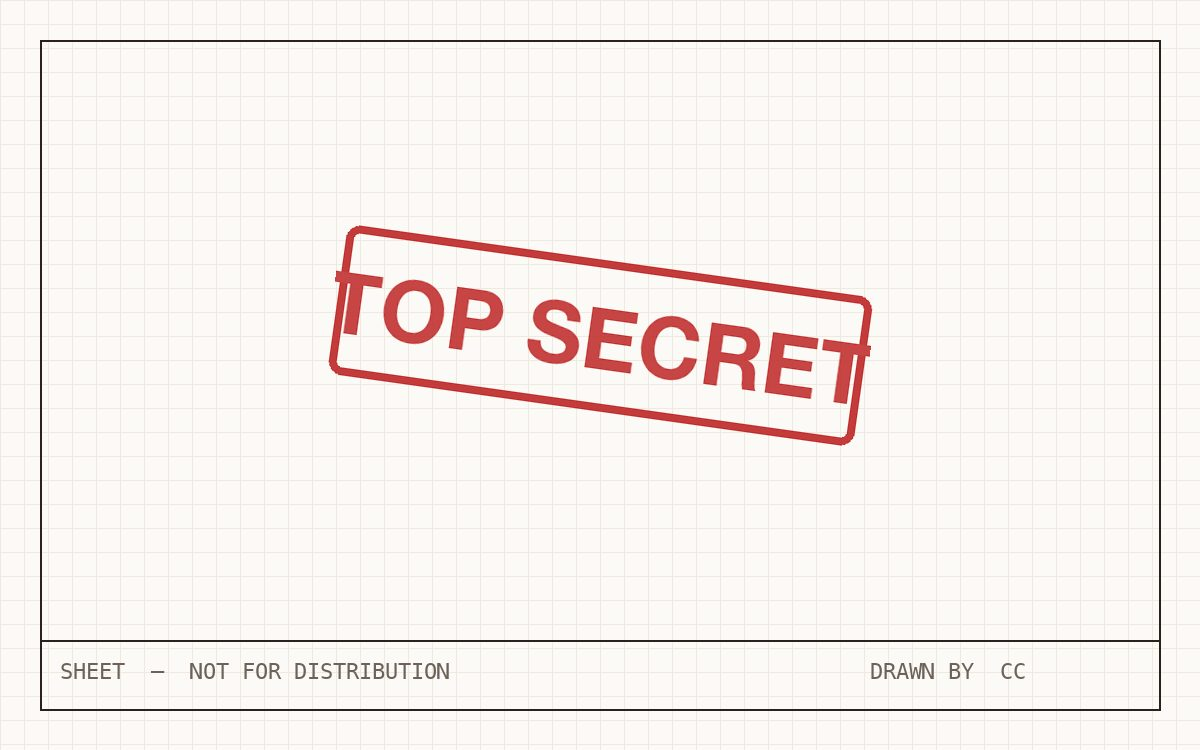
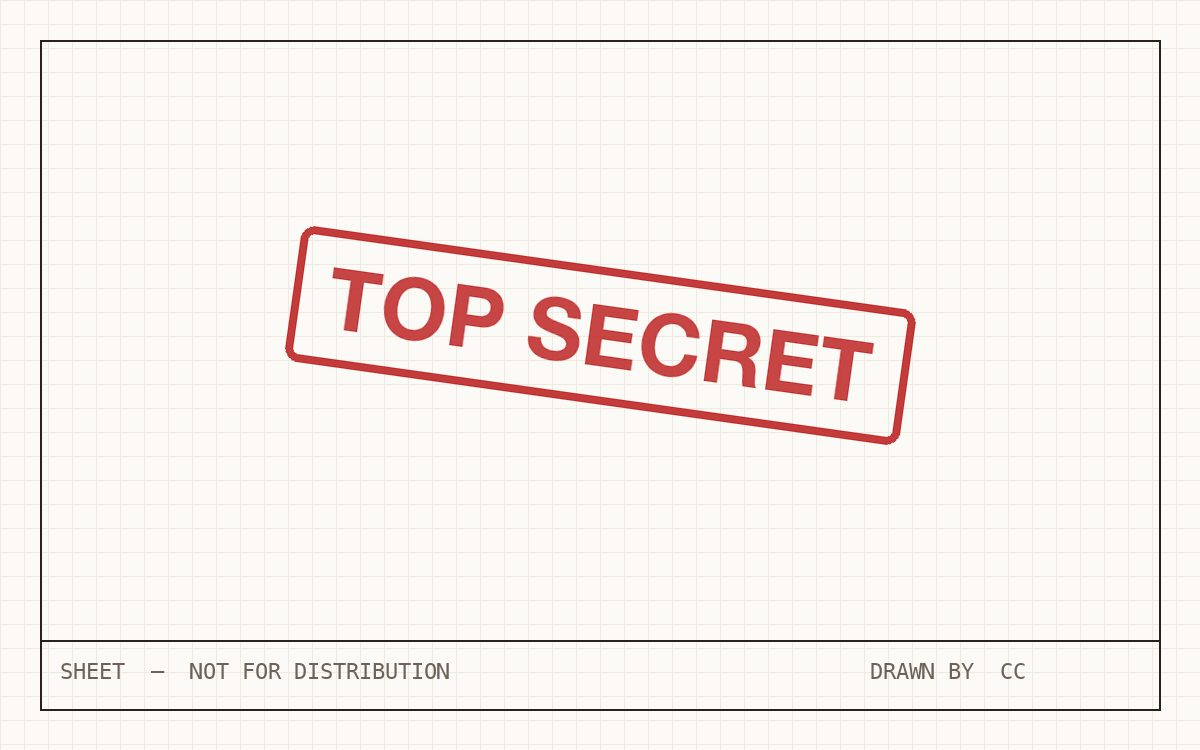
Stamp fits; tagline only on the home page

Changed region(s): [[0.2158, 0.276, 0.7708, 0.6133]]

diff --git a/interiors/index.html b/interiors/index.html
@@ -132,7 +132,7 @@ a:focus-visible,[tabindex]:focus-visible{outline:2px solid #3253c4;outline-offse
 .ptitle h1{font-size:42px}.pano{margin:30px -12px 0}.facts,.intro,.step,.quotes,.cgrid,.cv{grid-template-columns:1fr;gap:24px}.step.flip{grid-template-columns:1fr}.step.flip>.pics{order:0}.step{margin-top:60px}footer h2{font-size:34px}footer .row{flex-wrap:wrap}main svg,footer svg{max-width:100%}.sec{height:auto}.mail{font-size:18px!important;word-break:break-all}}
 h1,h2,h3,.sub,.note,.cap,figcaption,.hc,.label,.chip{text-wrap:balance} p,li{text-wrap:pretty}</style></head><body>
 <div class="wrap">
-<header class="top"><a class="name" href="../"><b>Cameron Creath Design</b><span class="hc">Show Set&nbsp;· Interiors&nbsp;· Attractions</span></a>
+<header class="top"><a class="name" href="../"><b>Cameron Creath Design</b></a>   <!-- practice areas only on the home page: the tabs say it everywhere else -->
 <nav class="tabs"><a class="tab" style="background-color:#76c3f1" href="../entertainment/">Entertainment</a><a class="tab on" href="../interiors/">Interiors</a><a class="tab" style="background-color:#fae87a" href="../personal/">Personal Projects</a><a class="tab" style="background-color:#c6dffd" href="../about/">About me</a></nav></header>
 
 <main class="sheet"><section class="ptitle"><span class="chip" style="border-left:4px solid #f1a13e">Interiors</span><h1>Interiors</h1><p class="sub">Hospitality interiors at Gensler and EDG · a classroom program I started at Gensler.</p></section><div class="cgrid"><a class="card" href="superdome/"><div class="mount"><img src="../images/superdome-built.jpg" alt="" loading="lazy"></div><span class="chip" style="border-left:4px solid #f1a13e">Gensler</span><h3>Superdome Clubs + Grab & Go Markets</h3><p>Premium club spaces and grab-and-go markets for the Caesars Superdome. I was a junior designer on the project.</p><span class="meta">Hospitality interiors</span><span class="more hc">Read the project →</span></a><a class="card" href="mgm/"><div class="mount"><img src="../images/mgm-suite.jpg" alt="" loading="lazy"></div><span class="chip" style="border-left:4px solid #f1a13e">Gensler</span><h3>MGM Grand Guestrooms</h3><p>Guestroom and suite refresh, from finishes to custom furniture.</p><span class="meta">Hospitality interiors</span><span class="more hc">Read the project →</span></a><a class="card" href="edg-furniture/"><div class="mount"><img src="../images/edg-aviator-photo.jpg" alt="" loading="lazy"></div><span class="chip" style="border-left:4px solid #f1a13e">EDG</span><h3>Hotel Furniture at EDG</h3><p>Design intern. 3D models and design drawings for hotel FF&E, plus building templates and SOPs.</p><span class="meta">Interior design · Hotel FF&E</span><span class="more hc">Read the project →</span></a><a class="card" href="eduscape/"><div class="mount"><img src="../images/eduscape-moon.jpg" alt="" loading="lazy"></div><span class="chip" style="border-left:4px solid #f1a13e">Gensler · founder</span><h3>Eduscape</h3><p>Reusable classroom worlds for kindergartens in downtown LA. I pitched it and led 70+ volunteers through three installs.</p><span class="meta">Classroom interiors · volunteer program · 2022–2023</span><span class="more hc">Read the project →</span></a></div></main></div>

diff --git a/entertainment/index.html b/entertainment/index.html
@@ -132,7 +132,7 @@ a:focus-visible,[tabindex]:focus-visible{outline:2px solid #3253c4;outline-offse
 .ptitle h1{font-size:42px}.pano{margin:30px -12px 0}.facts,.intro,.step,.quotes,.cgrid,.cv{grid-template-columns:1fr;gap:24px}.step.flip{grid-template-columns:1fr}.step.flip>.pics{order:0}.step{margin-top:60px}footer h2{font-size:34px}footer .row{flex-wrap:wrap}main svg,footer svg{max-width:100%}.sec{height:auto}.mail{font-size:18px!important;word-break:break-all}}
 h1,h2,h3,.sub,.note,.cap,figcaption,.hc,.label,.chip{text-wrap:balance} p,li{text-wrap:pretty}</style></head><body>
 <div class="wrap">
-<header class="top"><a class="name" href="../"><b>Cameron Creath Design</b><span class="hc">Show Set&nbsp;· Interiors&nbsp;· Attractions</span></a>
+<header class="top"><a class="name" href="../"><b>Cameron Creath Design</b></a>   <!-- practice areas only on the home page: the tabs say it everywhere else -->
 <nav class="tabs"><a class="tab on" href="../entertainment/">Entertainment</a><a class="tab" style="background-color:#f1a13e" href="../interiors/">Interiors</a><a class="tab" style="background-color:#fae87a" href="../personal/">Personal Projects</a><a class="tab" style="background-color:#c6dffd" href="../about/">About me</a></nav></header>
 
 <main class="sheet"><section class="ptitle"><span class="chip" style="border-left:4px solid #3253c4">Entertainment</span><h1>Entertainment</h1><p class="sub">Rides, themed areas and show sets.</p></section><div class="cgrid"><a class="card" href="oobleck/"><div class="mount"><img src="../images/oobleck-aerial.jpg" alt="" loading="lazy"></div><span class="chip" style="border-left:4px solid #3253c4">Personal · Fall 2025</span><h3>The Oobleck Coaster</h3><p>A story-driven family roller coaster, combining area development and track layout.</p><span class="meta">Attractions</span><span class="more hc">Read the project →</span></a><a class="card" href="heartline/"><div class="mount"><img src="../images/heartline-app.jpg" alt="" loading="lazy"></div><span class="chip" style="border-left:4px solid #3253c4">Personal · in progress</span><h3>HEARTLINE</h3><p>A coaster design tool that starts from the rider. Draw where the car flies and the track is built around it.</p><span class="meta">Software · AI · engineering</span><span class="more hc">Read the project →</span></a><a class="card" href="village-gate/"><div class="mount"><img src="../images/dnd-night.jpg" alt="" loading="lazy"></div><span class="chip" style="border-left:4px solid #3253c4">Personal · collaboration</span><h3>The Wizard’s Gate</h3><p>A concept-art-to-3D-model project: faithfully modeling the structure from a drawing by Andrew Carey, Concept Artist.</p><span class="meta">Themed gate</span><span class="more hc">Read the project →</span></a><a class="card" href="top-secret/"><div class="mount"><img src="../images/top-secret.jpg" alt="" loading="lazy"></div><span class="chip" style="border-left:4px solid #3253c4">Herschend · Mycotoo · Basemint · ASDI</span><h3>Top Secret</h3><p>Rides, rockwork and an art direction package I can describe but not show.</p><span class="meta">Under NDA</span><span class="more hc">Read the project →</span></a></div></main></div>

diff --git a/personal/index.html b/personal/index.html
@@ -132,7 +132,7 @@ a:focus-visible,[tabindex]:focus-visible{outline:2px solid #3253c4;outline-offse
 .ptitle h1{font-size:42px}.pano{margin:30px -12px 0}.facts,.intro,.step,.quotes,.cgrid,.cv{grid-template-columns:1fr;gap:24px}.step.flip{grid-template-columns:1fr}.step.flip>.pics{order:0}.step{margin-top:60px}footer h2{font-size:34px}footer .row{flex-wrap:wrap}main svg,footer svg{max-width:100%}.sec{height:auto}.mail{font-size:18px!important;word-break:break-all}}
 h1,h2,h3,.sub,.note,.cap,figcaption,.hc,.label,.chip{text-wrap:balance} p,li{text-wrap:pretty}</style></head><body>
 <div class="wrap">
-<header class="top"><a class="name" href="../"><b>Cameron Creath Design</b><span class="hc">Show Set&nbsp;· Interiors&nbsp;· Attractions</span></a>
+<header class="top"><a class="name" href="../"><b>Cameron Creath Design</b></a>   <!-- practice areas only on the home page: the tabs say it everywhere else -->
 <nav class="tabs"><a class="tab" style="background-color:#76c3f1" href="../entertainment/">Entertainment</a><a class="tab" style="background-color:#f1a13e" href="../interiors/">Interiors</a><a class="tab on" href="../personal/">Personal Projects</a><a class="tab" style="background-color:#c6dffd" href="../about/">About me</a></nav></header>
 
 <main class="sheet"><section class="ptitle"><span class="chip" style="border-left:4px solid #fae87a">Personal projects</span><h1>Personal Projects</h1><p class="sub">Things I make on my own time.</p></section><div class="cgrid"><a class="card" href="treehouse/"><div class="mount"><img src="../images/treehouse-01.jpg" alt="" loading="lazy"></div><span class="chip" style="border-left:4px solid #fae87a">Personal</span><h3>Gaudí Getaway</h3><p>A surrealist treehouse concept.</p><span class="meta">Organic architecture</span><span class="more hc">Read the project →</span></a><a class="card" href="pillow-fort/"><div class="mount"><img src="../images/pillowfort-3720.jpg" alt="" loading="lazy"></div><span class="chip" style="border-left:4px solid #fae87a">Personal · June 2026</span><h3>The Celestial Pillow Fort</h3><p>An immersive 950 sq ft pillow fort.</p><span class="meta">Themed environment</span><span class="more hc">Read the project →</span></a><a class="card" href="paper-cards/"><div class="mount"><img src="../images/paper-craft-cards-3772.jpg" alt="" loading="lazy"></div><span class="chip" style="border-left:4px solid #fae87a">Personal · ongoing</span><h3>Paper Cards</h3><p>Layered cards for friends and family. Lettered in Illustrator, cut on a Cricut, glued by hand.</p><span class="meta">Paper craft</span><span class="more hc">Read the project →</span></a></div></main></div>

diff --git a/404.html b/404.html
@@ -132,7 +132,7 @@ a:focus-visible,[tabindex]:focus-visible{outline:2px solid #3253c4;outline-offse
 .ptitle h1{font-size:42px}.pano{margin:30px -12px 0}.facts,.intro,.step,.quotes,.cgrid,.cv{grid-template-columns:1fr;gap:24px}.step.flip{grid-template-columns:1fr}.step.flip>.pics{order:0}.step{margin-top:60px}footer h2{font-size:34px}footer .row{flex-wrap:wrap}main svg,footer svg{max-width:100%}.sec{height:auto}.mail{font-size:18px!important;word-break:break-all}}
 h1,h2,h3,.sub,.note,.cap,figcaption,.hc,.label,.chip{text-wrap:balance} p,li{text-wrap:pretty}</style></head><body>
 <div class="wrap">
-<header class="top"><a class="name" href=""><b>Cameron Creath Design</b><span class="hc">Show Set&nbsp;· Interiors&nbsp;· Attractions</span></a>
+<header class="top"><a class="name" href=""><b>Cameron Creath Design</b></a>   <!-- practice areas only on the home page: the tabs say it everywhere else -->
 <nav class="tabs"><a class="tab" style="background-color:#76c3f1" href="entertainment/">Entertainment</a><a class="tab" style="background-color:#f1a13e" href="interiors/">Interiors</a><a class="tab" style="background-color:#fae87a" href="personal/">Personal Projects</a><a class="tab" style="background-color:#c6dffd" href="about/">About me</a></nav></header>
 
 <main class="sheet"><section class="ptitle"><span class="chip" style="border-left:4px solid #ec712e">404</span><h1>That page isn’t here.</h1>

diff --git a/about/index.html b/about/index.html
@@ -132,7 +132,7 @@ a:focus-visible,[tabindex]:focus-visible{outline:2px solid #3253c4;outline-offse
 .ptitle h1{font-size:42px}.pano{margin:30px -12px 0}.facts,.intro,.step,.quotes,.cgrid,.cv{grid-template-columns:1fr;gap:24px}.step.flip{grid-template-columns:1fr}.step.flip>.pics{order:0}.step{margin-top:60px}footer h2{font-size:34px}footer .row{flex-wrap:wrap}main svg,footer svg{max-width:100%}.sec{height:auto}.mail{font-size:18px!important;word-break:break-all}}
 h1,h2,h3,.sub,.note,.cap,figcaption,.hc,.label,.chip{text-wrap:balance} p,li{text-wrap:pretty}</style></head><body>
 <div class="wrap">
-<header class="top"><a class="name" href="../"><b>Cameron Creath Design</b><span class="hc">Show Set&nbsp;· Interiors&nbsp;· Attractions</span></a>
+<header class="top"><a class="name" href="../"><b>Cameron Creath Design</b></a>   <!-- practice areas only on the home page: the tabs say it everywhere else -->
 <nav class="tabs"><a class="tab" style="background-color:#76c3f1" href="../entertainment/">Entertainment</a><a class="tab" style="background-color:#f1a13e" href="../interiors/">Interiors</a><a class="tab" style="background-color:#fae87a" href="../personal/">Personal Projects</a><a class="tab on" href="../about/">About me</a></nav></header>
 
 <main class="sheet"><section class="ptitle"><span class="chip" style="border-left:4px solid #2a211c">About me</span><h1>Hi, I’m Cameron.</h1>

diff --git a/entertainment/heartline/index.html b/entertainment/heartline/index.html
@@ -133,7 +133,7 @@ a:focus-visible,[tabindex]:focus-visible{outline:2px solid #3253c4;outline-offse
 .ptitle h1{font-size:42px}.pano{margin:30px -12px 0}.facts,.intro,.step,.quotes,.cgrid,.cv{grid-template-columns:1fr;gap:24px}.step.flip{grid-template-columns:1fr}.step.flip>.pics{order:0}.step{margin-top:60px}footer h2{font-size:34px}footer .row{flex-wrap:wrap}main svg,footer svg{max-width:100%}.sec{height:auto}.mail{font-size:18px!important;word-break:break-all}}
 h1,h2,h3,.sub,.note,.cap,figcaption,.hc,.label,.chip{text-wrap:balance} p,li{text-wrap:pretty}</style></head><body>
 <div class="wrap">
-<header class="top"><a class="name" href="../../"><b>Cameron Creath Design</b><span class="hc">Show Set&nbsp;· Interiors&nbsp;· Attractions</span></a>
+<header class="top"><a class="name" href="../../"><b>Cameron Creath Design</b></a>   <!-- practice areas only on the home page: the tabs say it everywhere else -->
 <nav class="tabs"><a class="tab on" href="../../entertainment/">Entertainment</a><a class="tab" style="background-color:#f1a13e" href="../../interiors/">Interiors</a><a class="tab" style="background-color:#fae87a" href="../../personal/">Personal Projects</a><a class="tab" style="background-color:#c6dffd" href="../../about/">About me</a></nav></header>
 
 <main class="sheet">

diff --git a/entertainment/oobleck/index.html b/entertainment/oobleck/index.html
@@ -133,7 +133,7 @@ a:focus-visible,[tabindex]:focus-visible{outline:2px solid #3253c4;outline-offse
 .ptitle h1{font-size:42px}.pano{margin:30px -12px 0}.facts,.intro,.step,.quotes,.cgrid,.cv{grid-template-columns:1fr;gap:24px}.step.flip{grid-template-columns:1fr}.step.flip>.pics{order:0}.step{margin-top:60px}footer h2{font-size:34px}footer .row{flex-wrap:wrap}main svg,footer svg{max-width:100%}.sec{height:auto}.mail{font-size:18px!important;word-break:break-all}}
 h1,h2,h3,.sub,.note,.cap,figcaption,.hc,.label,.chip{text-wrap:balance} p,li{text-wrap:pretty}</style></head><body>
 <div class="wrap">
-<header class="top"><a class="name" href="../../"><b>Cameron Creath Design</b><span class="hc">Show Set&nbsp;· Interiors&nbsp;· Attractions</span></a>
+<header class="top"><a class="name" href="../../"><b>Cameron Creath Design</b></a>   <!-- practice areas only on the home page: the tabs say it everywhere else -->
 <nav class="tabs"><a class="tab on" href="../../entertainment/">Entertainment</a><a class="tab" style="background-color:#f1a13e" href="../../interiors/">Interiors</a><a class="tab" style="background-color:#fae87a" href="../../personal/">Personal Projects</a><a class="tab" style="background-color:#c6dffd" href="../../about/">About me</a></nav></header>
 
 <main class="sheet">

diff --git a/entertainment/top-secret/index.html b/entertainment/top-secret/index.html
@@ -133,7 +133,7 @@ a:focus-visible,[tabindex]:focus-visible{outline:2px solid #3253c4;outline-offse
 .ptitle h1{font-size:42px}.pano{margin:30px -12px 0}.facts,.intro,.step,.quotes,.cgrid,.cv{grid-template-columns:1fr;gap:24px}.step.flip{grid-template-columns:1fr}.step.flip>.pics{order:0}.step{margin-top:60px}footer h2{font-size:34px}footer .row{flex-wrap:wrap}main svg,footer svg{max-width:100%}.sec{height:auto}.mail{font-size:18px!important;word-break:break-all}}
 h1,h2,h3,.sub,.note,.cap,figcaption,.hc,.label,.chip{text-wrap:balance} p,li{text-wrap:pretty}</style></head><body>
 <div class="wrap">
-<header class="top"><a class="name" href="../../"><b>Cameron Creath Design</b><span class="hc">Show Set&nbsp;· Interiors&nbsp;· Attractions</span></a>
+<header class="top"><a class="name" href="../../"><b>Cameron Creath Design</b></a>   <!-- practice areas only on the home page: the tabs say it everywhere else -->
 <nav class="tabs"><a class="tab on" href="../../entertainment/">Entertainment</a><a class="tab" style="background-color:#f1a13e" href="../../interiors/">Interiors</a><a class="tab" style="background-color:#fae87a" href="../../personal/">Personal Projects</a><a class="tab" style="background-color:#c6dffd" href="../../about/">About me</a></nav></header>
 
 <main class="sheet">

diff --git a/entertainment/village-gate/index.html b/entertainment/village-gate/index.html
@@ -133,7 +133,7 @@ a:focus-visible,[tabindex]:focus-visible{outline:2px solid #3253c4;outline-offse
 .ptitle h1{font-size:42px}.pano{margin:30px -12px 0}.facts,.intro,.step,.quotes,.cgrid,.cv{grid-template-columns:1fr;gap:24px}.step.flip{grid-template-columns:1fr}.step.flip>.pics{order:0}.step{margin-top:60px}footer h2{font-size:34px}footer .row{flex-wrap:wrap}main svg,footer svg{max-width:100%}.sec{height:auto}.mail{font-size:18px!important;word-break:break-all}}
 h1,h2,h3,.sub,.note,.cap,figcaption,.hc,.label,.chip{text-wrap:balance} p,li{text-wrap:pretty}</style></head><body>
 <div class="wrap">
-<header class="top"><a class="name" href="../../"><b>Cameron Creath Design</b><span class="hc">Show Set&nbsp;· Interiors&nbsp;· Attractions</span></a>
+<header class="top"><a class="name" href="../../"><b>Cameron Creath Design</b></a>   <!-- practice areas only on the home page: the tabs say it everywhere else -->
 <nav class="tabs"><a class="tab on" href="../../entertainment/">Entertainment</a><a class="tab" style="background-color:#f1a13e" href="../../interiors/">Interiors</a><a class="tab" style="background-color:#fae87a" href="../../personal/">Personal Projects</a><a class="tab" style="background-color:#c6dffd" href="../../about/">About me</a></nav></header>
 
 <main class="sheet">

diff --git a/interiors/edg-furniture/index.html b/interiors/edg-furniture/index.html
@@ -133,7 +133,7 @@ a:focus-visible,[tabindex]:focus-visible{outline:2px solid #3253c4;outline-offse
 .ptitle h1{font-size:42px}.pano{margin:30px -12px 0}.facts,.intro,.step,.quotes,.cgrid,.cv{grid-template-columns:1fr;gap:24px}.step.flip{grid-template-columns:1fr}.step.flip>.pics{order:0}.step{margin-top:60px}footer h2{font-size:34px}footer .row{flex-wrap:wrap}main svg,footer svg{max-width:100%}.sec{height:auto}.mail{font-size:18px!important;word-break:break-all}}
 h1,h2,h3,.sub,.note,.cap,figcaption,.hc,.label,.chip{text-wrap:balance} p,li{text-wrap:pretty}</style></head><body>
 <div class="wrap">
-<header class="top"><a class="name" href="../../"><b>Cameron Creath Design</b><span class="hc">Show Set&nbsp;· Interiors&nbsp;· Attractions</span></a>
+<header class="top"><a class="name" href="../../"><b>Cameron Creath Design</b></a>   <!-- practice areas only on the home page: the tabs say it everywhere else -->
 <nav class="tabs"><a class="tab" style="background-color:#76c3f1" href="../../entertainment/">Entertainment</a><a class="tab on" href="../../interiors/">Interiors</a><a class="tab" style="background-color:#fae87a" href="../../personal/">Personal Projects</a><a class="tab" style="background-color:#c6dffd" href="../../about/">About me</a></nav></header>
 
 <main class="sheet">

diff --git a/interiors/eduscape/index.html b/interiors/eduscape/index.html
@@ -133,7 +133,7 @@ a:focus-visible,[tabindex]:focus-visible{outline:2px solid #3253c4;outline-offse
 .ptitle h1{font-size:42px}.pano{margin:30px -12px 0}.facts,.intro,.step,.quotes,.cgrid,.cv{grid-template-columns:1fr;gap:24px}.step.flip{grid-template-columns:1fr}.step.flip>.pics{order:0}.step{margin-top:60px}footer h2{font-size:34px}footer .row{flex-wrap:wrap}main svg,footer svg{max-width:100%}.sec{height:auto}.mail{font-size:18px!important;word-break:break-all}}
 h1,h2,h3,.sub,.note,.cap,figcaption,.hc,.label,.chip{text-wrap:balance} p,li{text-wrap:pretty}</style></head><body>
 <div class="wrap">
-<header class="top"><a class="name" href="../../"><b>Cameron Creath Design</b><span class="hc">Show Set&nbsp;· Interiors&nbsp;· Attractions</span></a>
+<header class="top"><a class="name" href="../../"><b>Cameron Creath Design</b></a>   <!-- practice areas only on the home page: the tabs say it everywhere else -->
 <nav class="tabs"><a class="tab" style="background-color:#76c3f1" href="../../entertainment/">Entertainment</a><a class="tab on" href="../../interiors/">Interiors</a><a class="tab" style="background-color:#fae87a" href="../../personal/">Personal Projects</a><a class="tab" style="background-color:#c6dffd" href="../../about/">About me</a></nav></header>
 
 <main class="sheet">

diff --git a/interiors/mgm/index.html b/interiors/mgm/index.html
@@ -133,7 +133,7 @@ a:focus-visible,[tabindex]:focus-visible{outline:2px solid #3253c4;outline-offse
 .ptitle h1{font-size:42px}.pano{margin:30px -12px 0}.facts,.intro,.step,.quotes,.cgrid,.cv{grid-template-columns:1fr;gap:24px}.step.flip{grid-template-columns:1fr}.step.flip>.pics{order:0}.step{margin-top:60px}footer h2{font-size:34px}footer .row{flex-wrap:wrap}main svg,footer svg{max-width:100%}.sec{height:auto}.mail{font-size:18px!important;word-break:break-all}}
 h1,h2,h3,.sub,.note,.cap,figcaption,.hc,.label,.chip{text-wrap:balance} p,li{text-wrap:pretty}</style></head><body>
 <div class="wrap">
-<header class="top"><a class="name" href="../../"><b>Cameron Creath Design</b><span class="hc">Show Set&nbsp;· Interiors&nbsp;· Attractions</span></a>
+<header class="top"><a class="name" href="../../"><b>Cameron Creath Design</b></a>   <!-- practice areas only on the home page: the tabs say it everywhere else -->
 <nav class="tabs"><a class="tab" style="background-color:#76c3f1" href="../../entertainment/">Entertainment</a><a class="tab on" href="../../interiors/">Interiors</a><a class="tab" style="background-color:#fae87a" href="../../personal/">Personal Projects</a><a class="tab" style="background-color:#c6dffd" href="../../about/">About me</a></nav></header>
 
 <main class="sheet">
